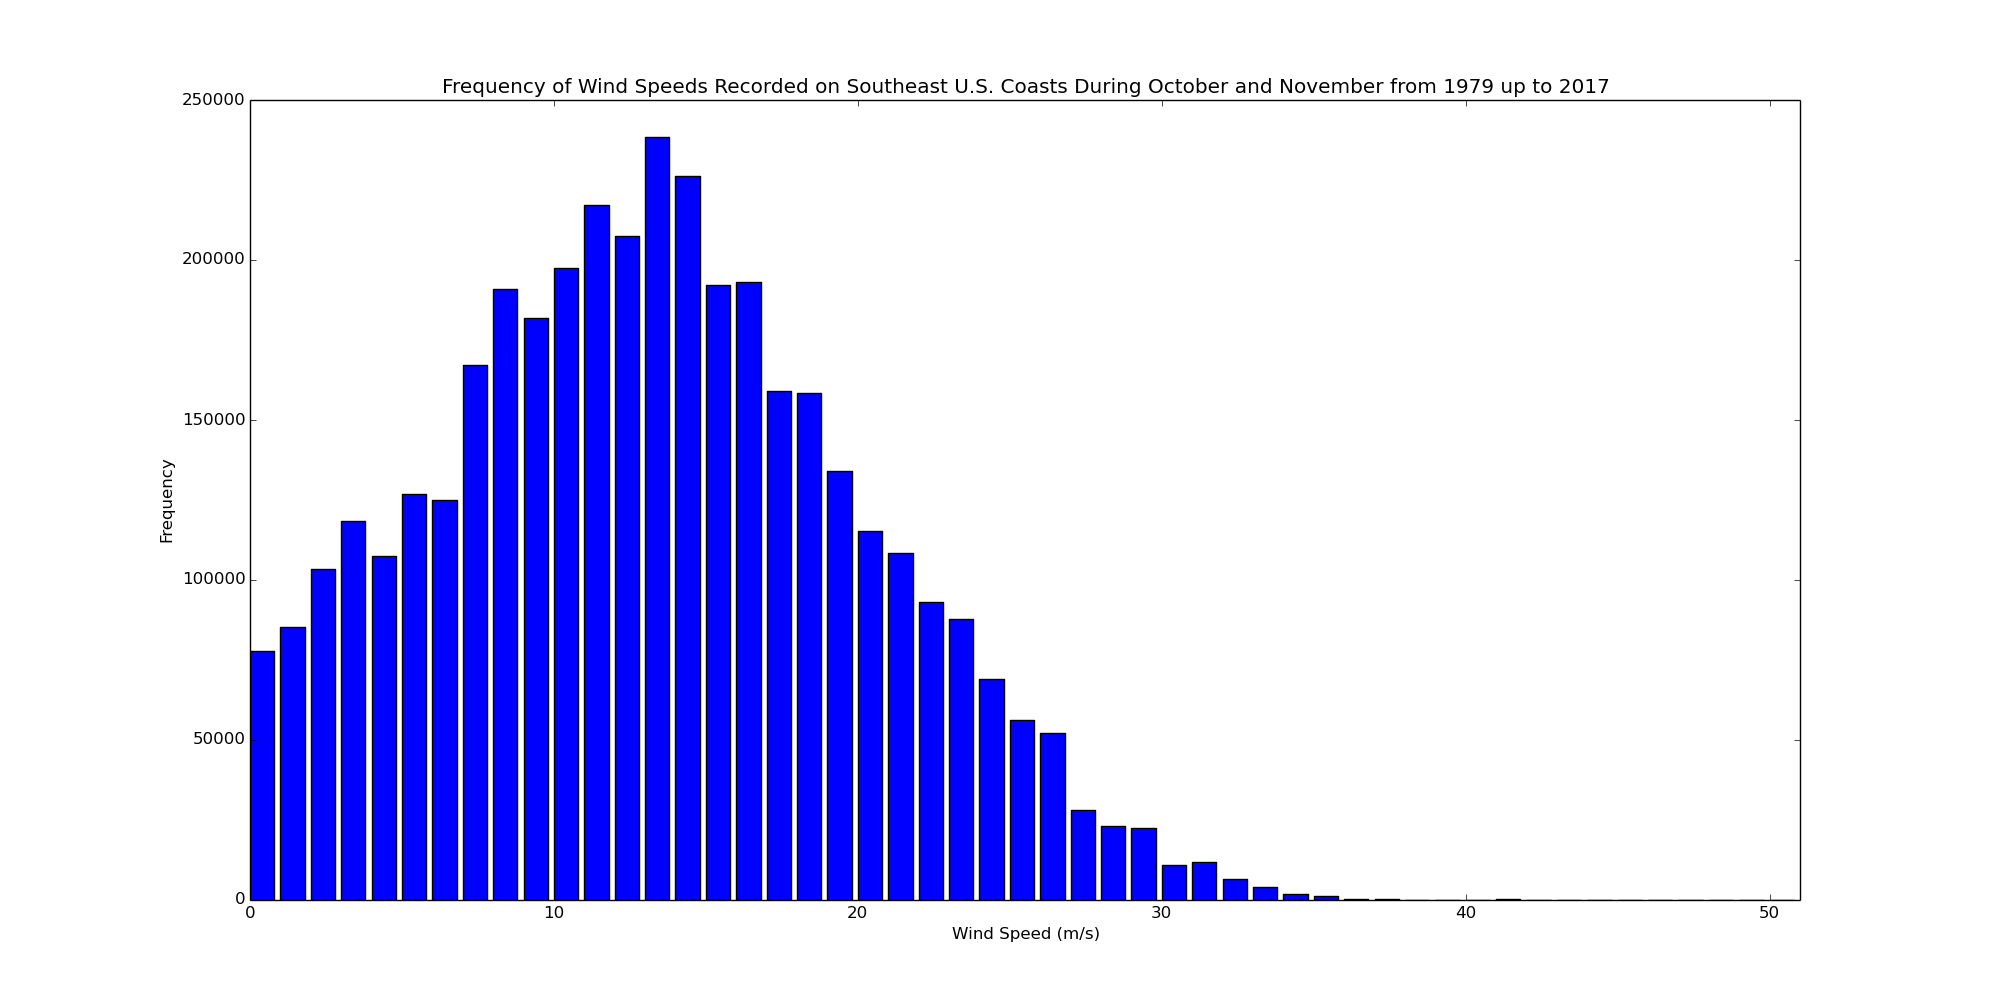
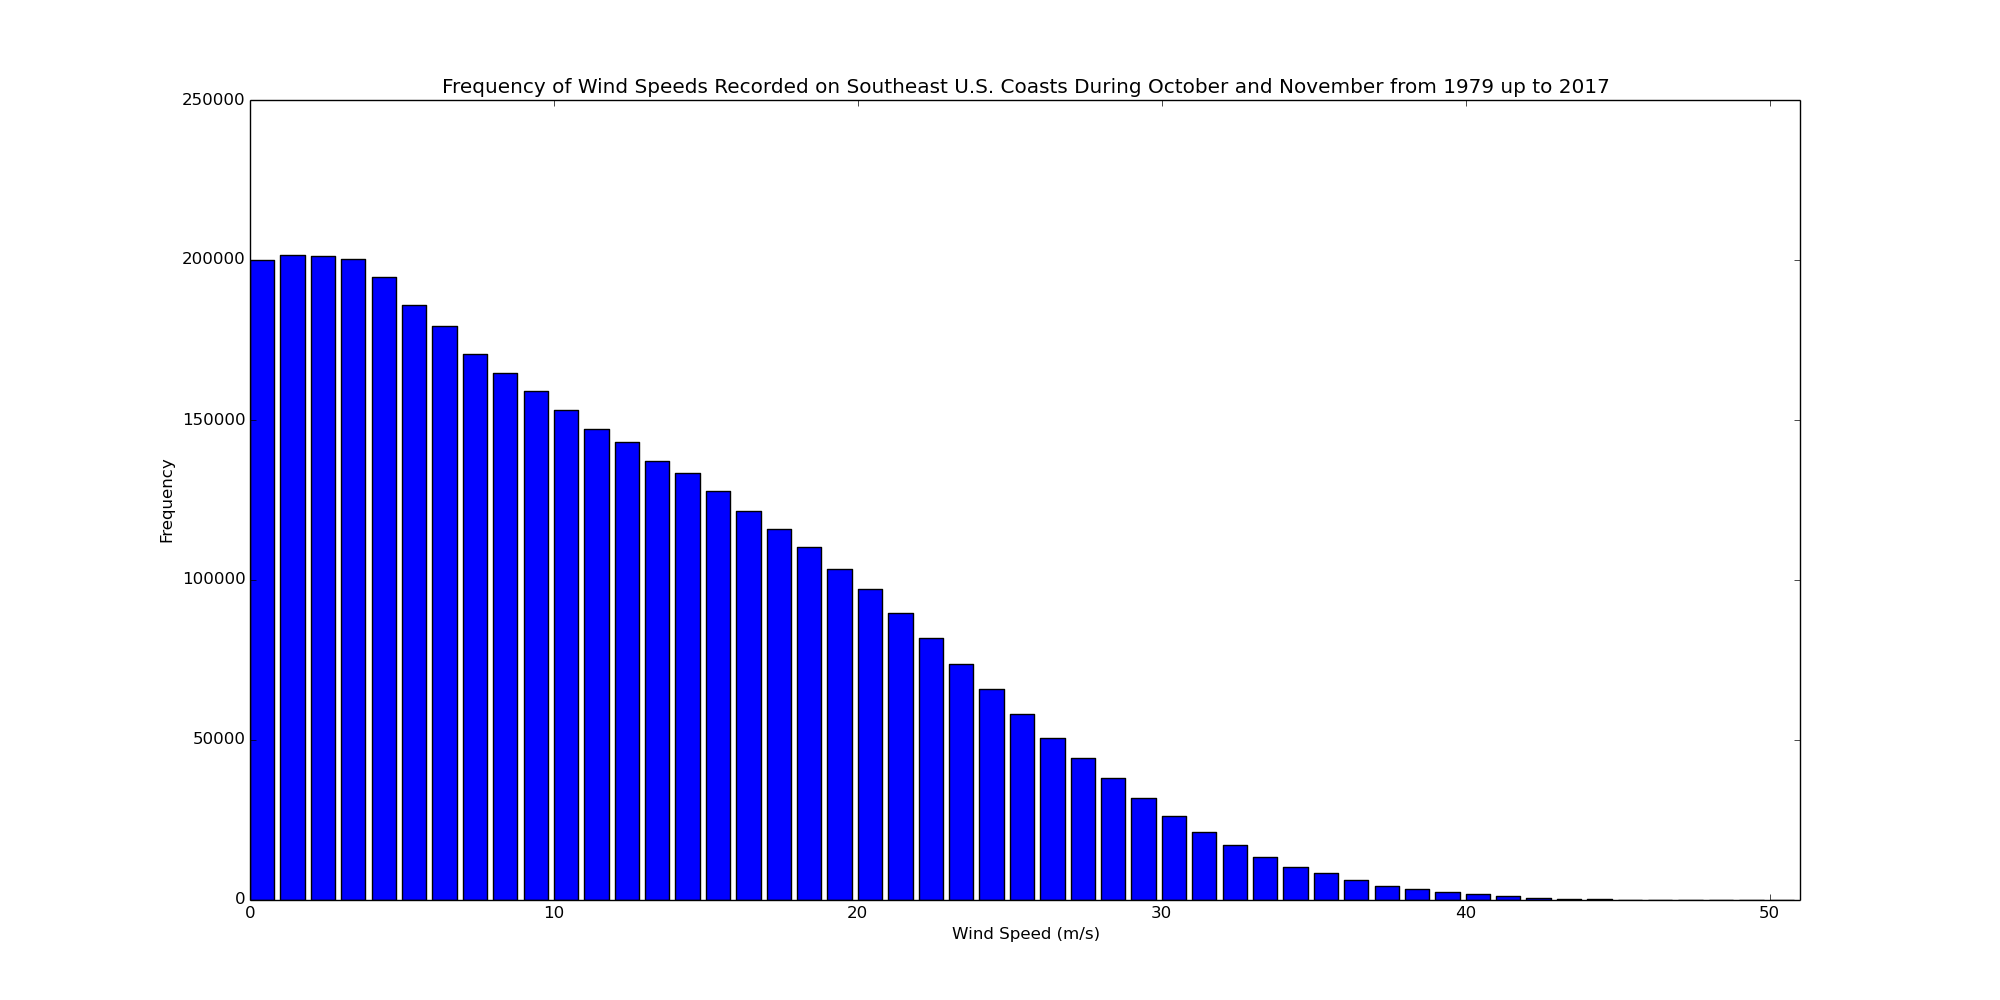
Fixed issue with seasonal patitioning

Changed region(s): [[0.124, 0.124, 0.496, 0.682], [0.527, 0.744, 0.744, 0.899], [0.496, 0.713, 0.527, 0.744]]

diff --git a/DLM_stats.py b/DLM_stats.py
@@ -140,28 +140,37 @@ def calcNumStagFlow(wind_speed_freq, stagnant_flow):
 #                           speeds in this array were measured in the late part of the
 #                           Atlantic hurricane season (October or November)
 def divideBySeason(wind_speeds):
-    wind_speeds_EHS = [[]] * len(wind_speeds)
-    wind_speeds_MHS = [[]] * len(wind_speeds)
-    wind_speeds_LHS = [[]] * len(wind_speeds)
+    wind_speeds_EHS = [[None]] * len(wind_speeds)
+    wind_speeds_MHS = [[None]] * len(wind_speeds)
+    wind_speeds_LHS = [[None]] * len(wind_speeds)
     i = 0
-    j = 0
 
     # Go through each location
     while i < len(wind_speeds):
+        j = 0
         # Go through each wind speed measurement
         while j < len(wind_speeds[i]):
             # If data was obtained prior to August, add it to the early hurricane season
             # wind speed array
             if (j % 732) < 252:
-                wind_speeds_EHS[i].append(wind_speeds[i][j])
+                if wind_speeds_EHS[i] == [None]:
+                    wind_speeds_EHS[i] = [wind_speeds[i][j]]
+                else:
+                    wind_speeds_EHS[i].append(wind_speeds[i][j])
             # If data was obtained in October or later, add it to the late hurricane season
             # wind speed array
             elif (j % 732) >= 496:
-                wind_speeds_LHS[i].append(wind_speeds[i][j])
+                if wind_speeds_LHS[i] == [None]:
+                    wind_speeds_LHS[i] = [wind_speeds[i][j]]
+                else:
+                    wind_speeds_LHS[i].append(wind_speeds[i][j])
             # Otherwise, the wind speed measurement was take in August or September, so
             # add it to the mid hurricane season wind speed array
             else:
-                wind_speeds_MHS[i].append(wind_speeds[i][j])
+                if wind_speeds_MHS[i] == [None]:
+                    wind_speeds_MHS[i] = [wind_speeds[i][j]]
+                else:
+                    wind_speeds_MHS[i].append(wind_speeds[i][j])
             j = j + 1
         i = i + 1
 
@@ -246,7 +255,6 @@ wind_speed_freq_all_LHS = [0] * (max_wind_speed + 1)
 wind_speeds_79_16_EHS, wind_speeds_79_16_MHS, wind_speeds_79_16_LHS = divideBySeason(wind_speeds_79_16)
 
 # Populate the wind speed frequency arrays for each of the three parts of the hurricane season
-#TODO: Fix this
 getFrequencies(wind_speeds_79_16_EHS, wind_speed_freq_all_EHS)
 getFrequencies(wind_speeds_79_16_MHS, wind_speed_freq_all_MHS)
 getFrequencies(wind_speeds_79_16_LHS, wind_speed_freq_all_LHS)
@@ -254,7 +262,7 @@ getFrequencies(wind_speeds_79_16_LHS, wind_speed_freq_all_LHS)
 # Generate histograms to show the frequency distribution for the wind speeds at all
 # measured locations for each of the three parts of the hurricane season from 1979 to 2017
 plt.figure(1, figsize = (20,10))
-plt.bar(np.arange(len(wind_speed_freq_all_EHS)), wind_speed_freq_all_EHS)
+plt.bar(np.arange(len(wind_speed_freq_all_MHS)), wind_speed_freq_all_EHS)
 plt.xlim(xmax=51)
 plt.ylabel('Frequency')
 plt.xlabel('Wind Speed (m/s)')
@@ -407,15 +415,15 @@ print('Total Number of Stagnant Flow Measurements Observed at All Locations from
 print('Total Number of Stagnant Flow Measurements Observed at All Locations from 1998 ' +
       ' up to 2017: ' + str(calcNumStagFlow(wind_speed_freq_98_16, stagnant_flow)))
 print('Mean Observed Wind Speed Among All Locations from 1979 up to 2017: ' + 
-      str(np.mean(wind_speeds_79_16)))
+      str(np.mean(wind_speeds_79_16)) + ' m/s')
 print('Mean Observed Wind Speed Among All Locations from 1979 up to 1998: ' +
-      str(np.mean(wind_speeds_79_97)))
+      str(np.mean(wind_speeds_79_97)) + ' m/s')
 print('Mean Observed Wind Speed Among All Locations from 1998 up to 2017: ' +
-      str(np.mean(wind_speeds_98_16)))
+      str(np.mean(wind_speeds_98_16)) + ' m/s')
 print('Standard Deviation of Observed Wind Speed Among All Locations from 1979 up to ' +
-      '2017: ' + str(np.std(wind_speeds_79_16)))
+      '2017: ' + str(np.std(wind_speeds_79_16)) + ' m/s')
 print('Standard Deviation of Observed Wind Speed Among All Locations from 1979 up to ' +
-      '1998: ' + str(np.std(wind_speeds_79_97)))
+      '1998: ' + str(np.std(wind_speeds_79_97)) + ' m/s')
 print('Standard Deviation of Observed Wind Speed Among All Locations from 1998 up to ' +
-      '2017: ' + str(np.std(wind_speeds_98_16)))
+      '2017: ' + str(np.std(wind_speeds_98_16)) + ' m/s')
 
